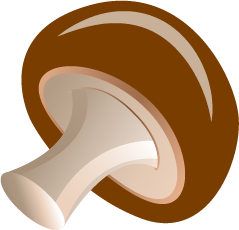
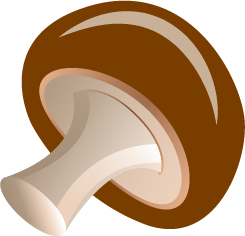
Updated image files and dimension ratios

diff --git a/public/js/counterTopSketch.js b/public/js/counterTopSketch.js
@@ -21,7 +21,7 @@ function Pan() {
 
 function Chicken() {
 	chickenHeight = panHeight * .45;
-	chickenWidth = panWidth * .5;
+	chickenWidth = chickenHeight * .93;
 	chickenX = panX;
 	chickenY = panY * .7;
 
@@ -31,12 +31,12 @@ function Chicken() {
 
 function Pepper(x, y) {
 	pepperWidth = boardWidth * .09;
-	pepperHeight = pepperWidth * 1.21;
+	pepperHeight = pepperWidth * 1.26;
 	pepperX = windowWidth-boardWidth*.5;
 	pepperY = windowHeight * .2;
 
 	pepperSliceHeight = pepperHeight;
-	pepperSliceWidth = pepperSliceHeight * .5;
+	pepperSliceWidth = pepperSliceHeight * .52 ;
 
 	chopState.redPepper.h = pepperHeight;
 	chopState.redPepper.w = pepperWidth;
@@ -46,12 +46,12 @@ function Pepper(x, y) {
 
 function Broccoli() {
 	broccoliWidth = boardWidth * .19;
-	broccoliHeight = broccoliWidth * 1.09;
+	broccoliHeight = broccoliWidth * 1.03;
 	broccoliX = windowWidth-boardWidth*.75;
 	broccoliY = windowHeight * .2;
 
 	broccoliSliceHeight = broccoliHeight * .5;
-	broccoliSliceWidth = broccoliSliceHeight * .56;
+	broccoliSliceWidth = broccoliSliceHeight * .55;
 
 	chopState.broccoli.h = broccoliHeight;
 	chopState.broccoli.w = broccoliWidth;
@@ -61,7 +61,7 @@ function Broccoli() {
 
 function Carrot() {
 	carrotWidth = boardWidth * .25;
-	carrotHeight = carrotWidth * .65;
+	carrotHeight = carrotWidth * .72;
 	carrotX = windowWidth-boardWidth*.6;
 	carrotY = windowHeight * .3;
 
@@ -76,7 +76,7 @@ function Carrot() {
 
 function Cucumber () {
 	cucumberWidth = boardWidth * .25;
-	cucumberHeight = cucumberWidth * .42;
+	cucumberHeight = cucumberWidth * .63;
 	cucumberX = windowWidth-boardWidth;
 	cucumberY = windowHeight * .3;
 
@@ -96,7 +96,7 @@ function Mushroom () {
 	mushroomY = windowHeight * .2;
 
 	mushroomSliceHeight = mushroomHeight * .5;
-	mushroomSliceWidth = mushroomSliceHeight;
+	mushroomSliceWidth = mushroomSliceHeight * 1.17;
 
 	chopState.mushroom.h = mushroomHeight;
 	chopState.mushroom.w = mushroomWidth;
@@ -106,12 +106,12 @@ function Mushroom () {
 
 function Onion () {
 	onionWidth = boardWidth * .1;
-	onionHeight = onionWidth * 1.24;
+	onionHeight = onionWidth * 1.31;
 	onionX = windowWidth-boardWidth*.3;
 	onionY = windowHeight * .3;
 
 	onionSliceHeight = onionHeight * .5;
-	onionSliceWidth = onionSliceHeight;
+	onionSliceWidth = onionSliceHeight * 2.04;
 
 	chopState.onion.h = onionHeight;
 	chopState.onion.w = onionWidth;
